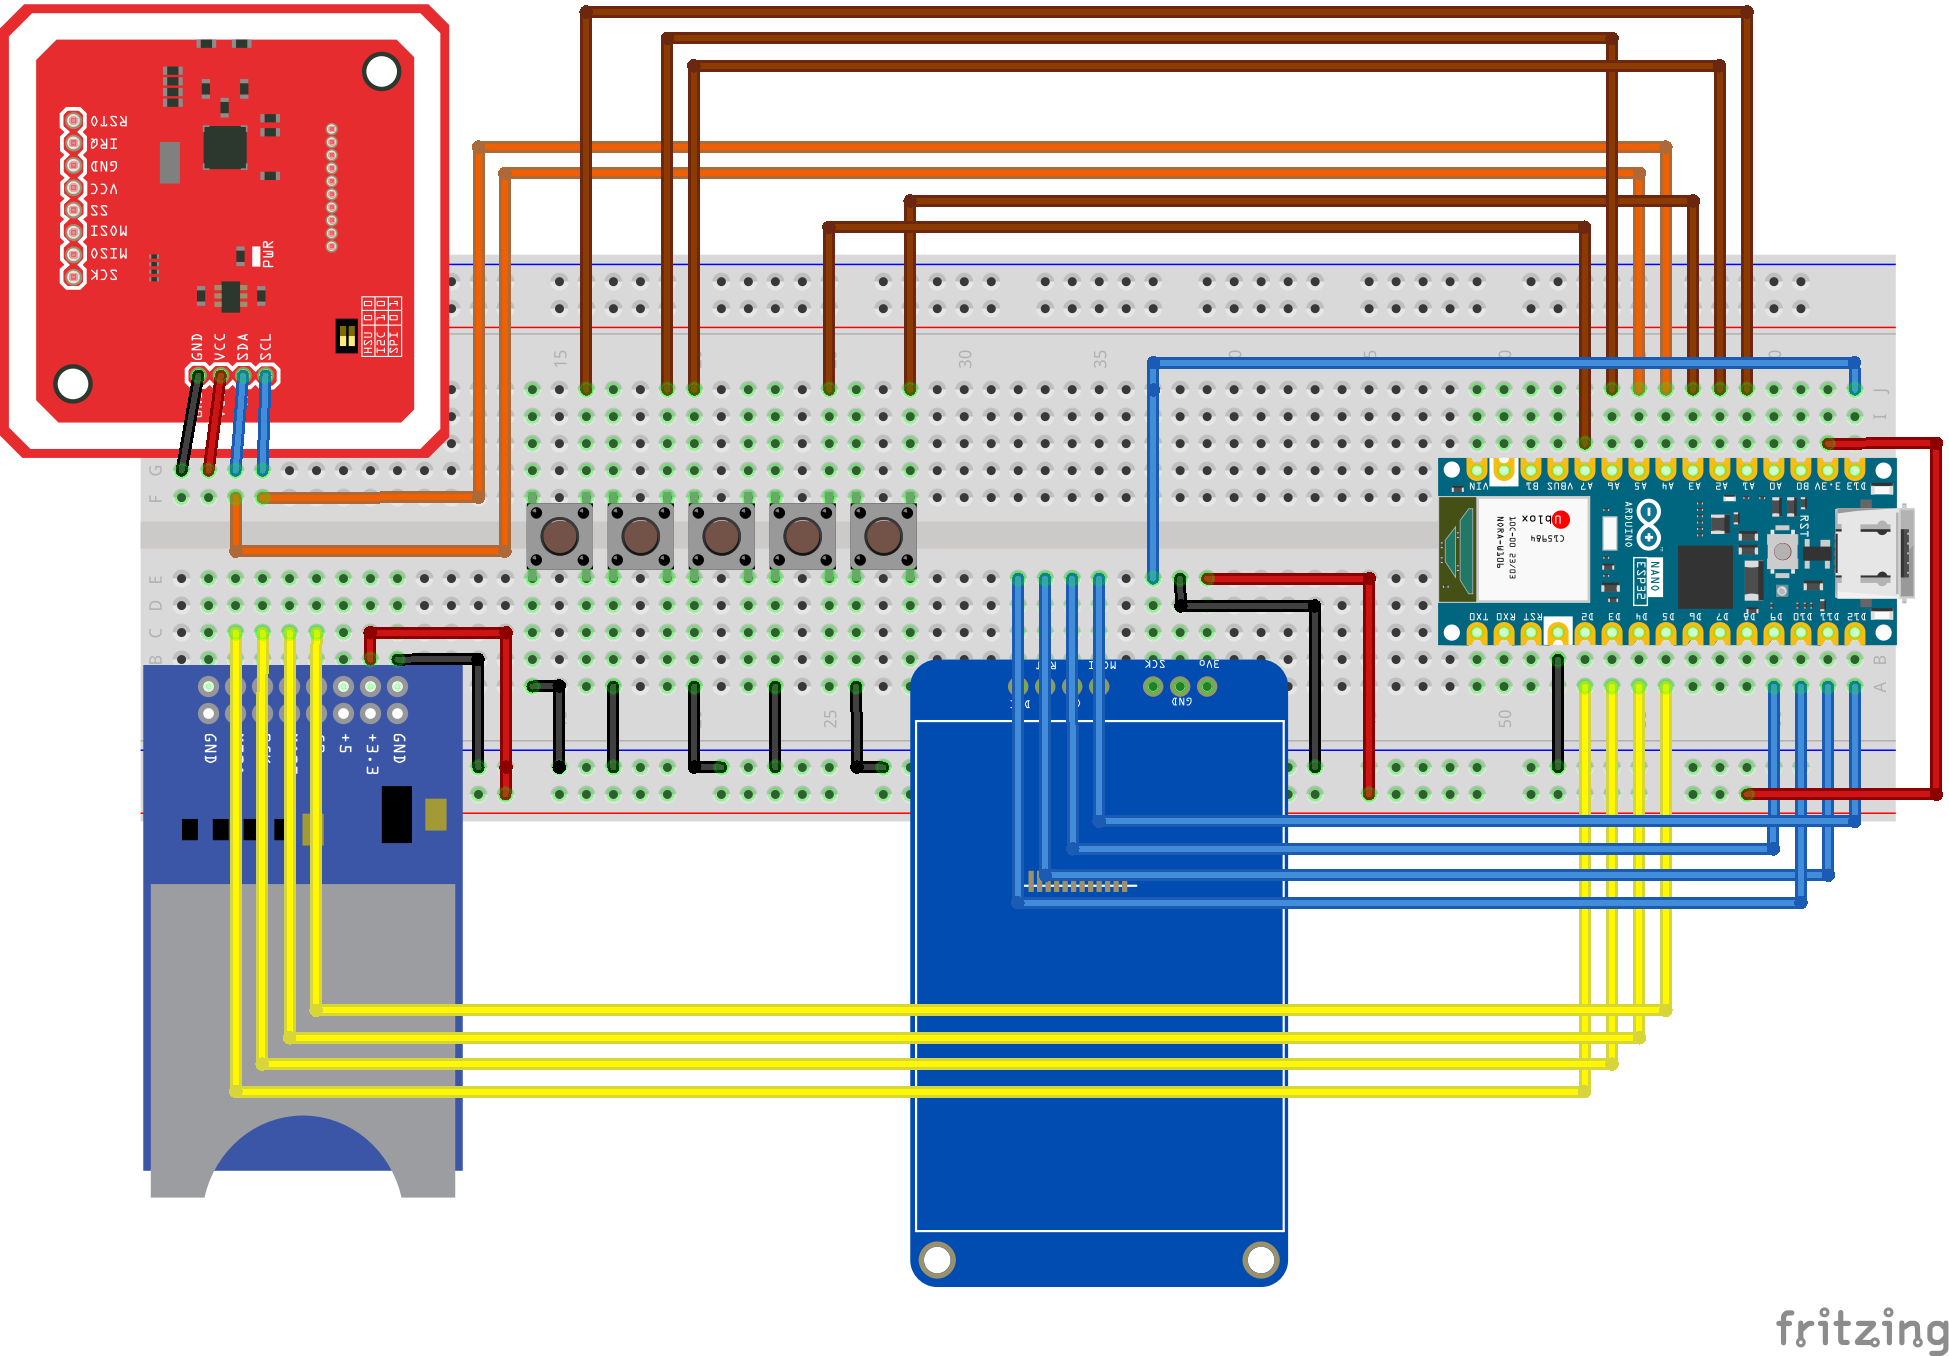
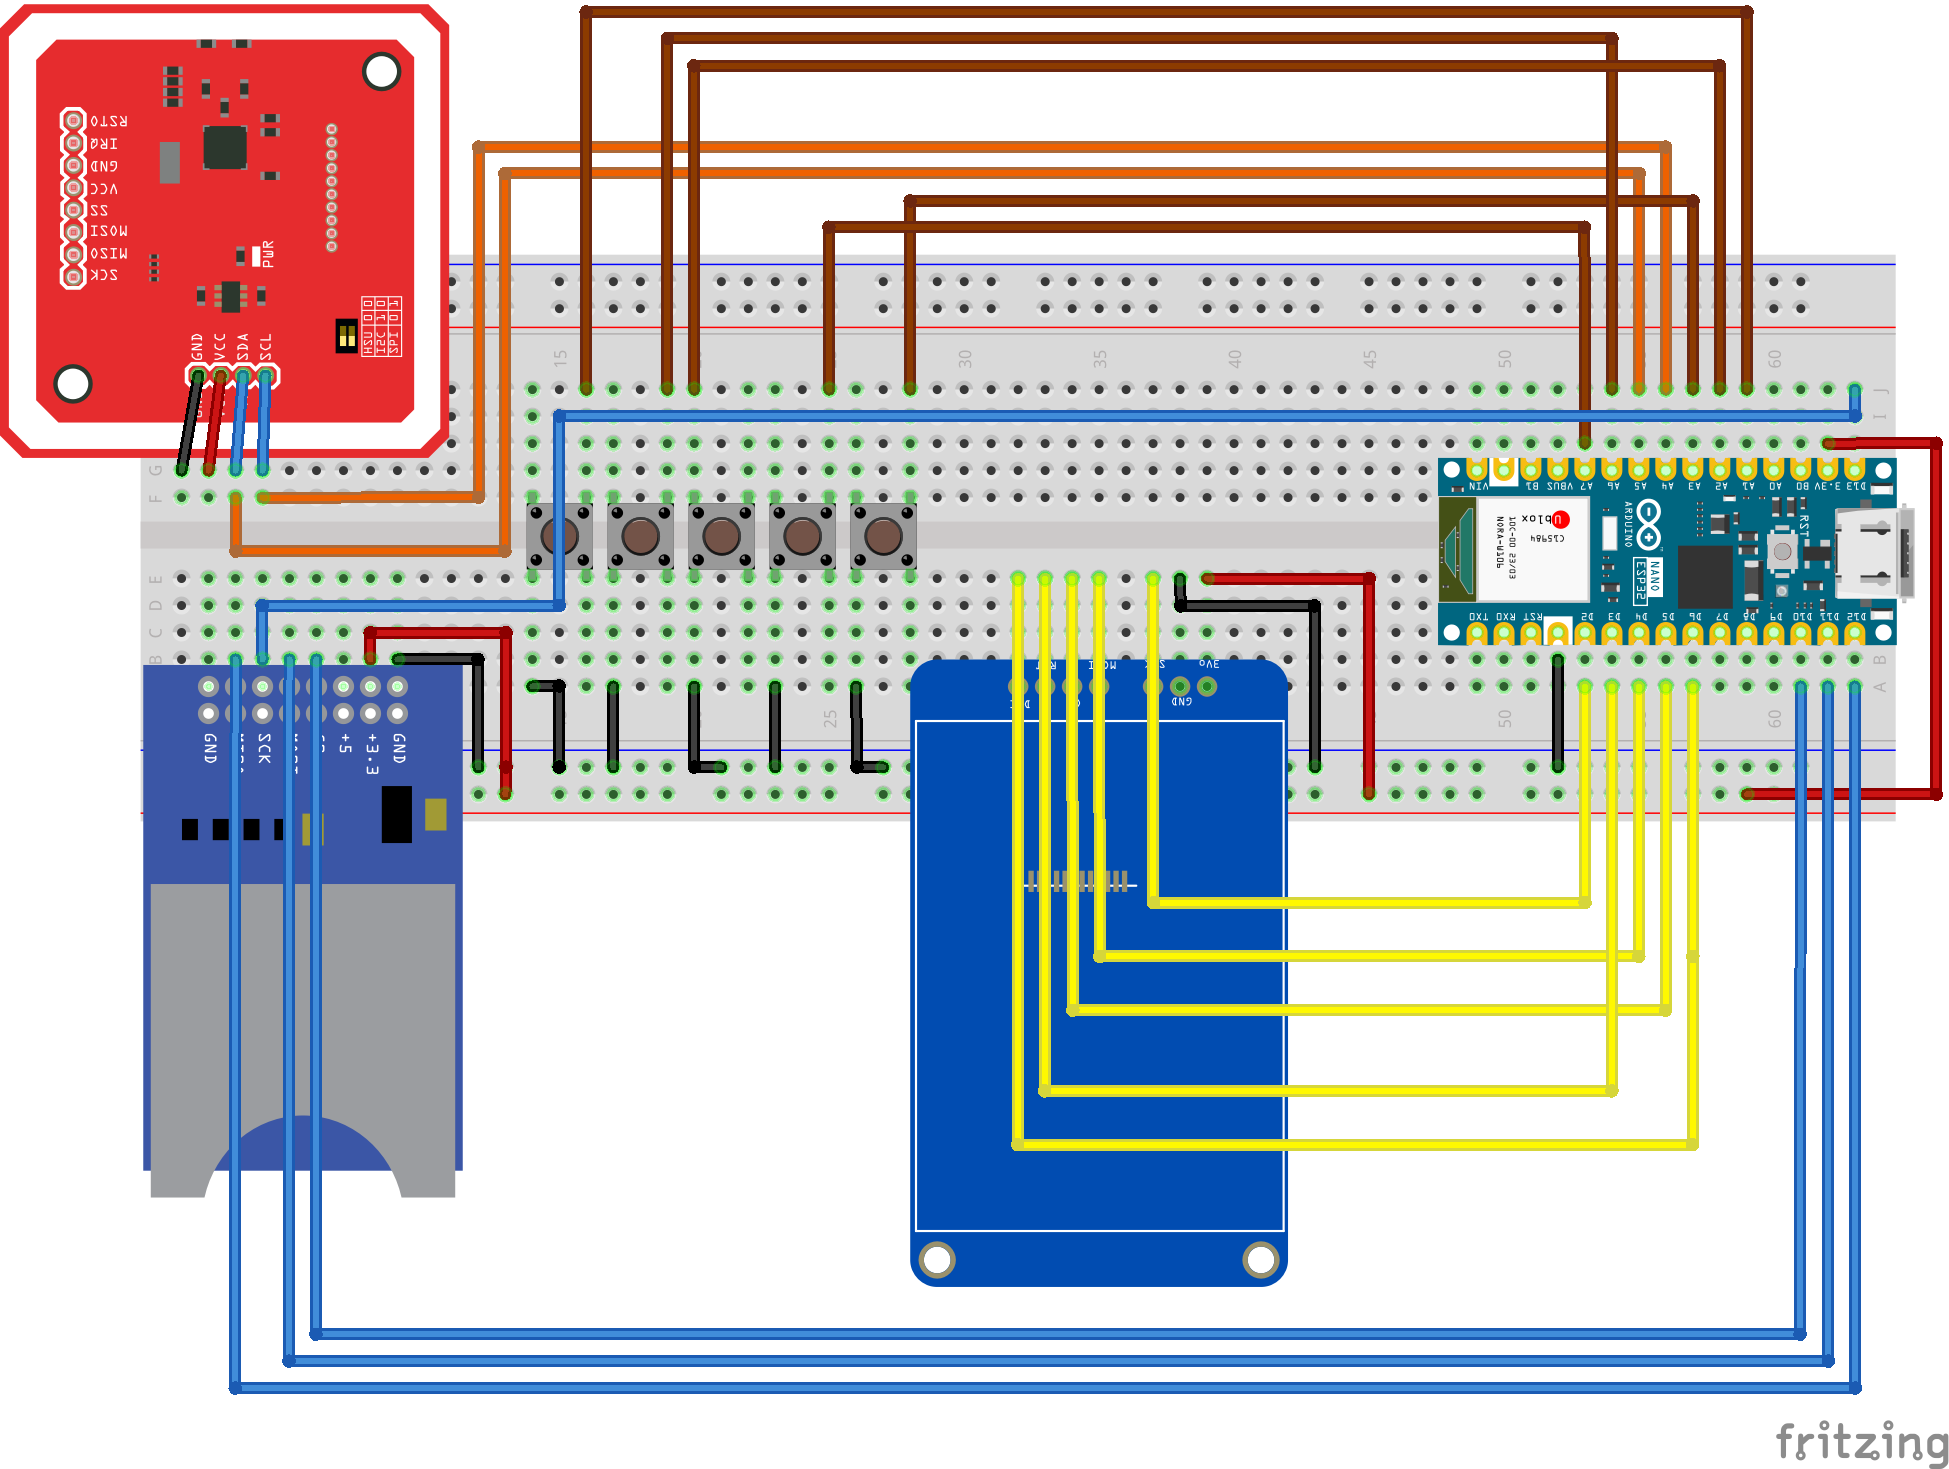
Update scheme

diff --git a/docs/scheme/ArduinoNanoESP32.md b/docs/scheme/ArduinoNanoESP32.md
@@ -21,10 +21,10 @@ With an Arduino Nano ESP32 board you must use the following pin if you doesn't w
 
 For the SD card we must use the SPI bus.
 
-- MISO: pin D2
-- SCK: pin D3
-- MOSI: pin D4
-- CS: pin D5
+- CS: pin D10
+- MOSI: pin D11
+- MISO: pin D12
+- SCK: pin D13
 
 <!-- ### CC1101
 
@@ -46,16 +46,17 @@ Make sure to put PN532 in I2C mode since we use it in this way. You can also use
 
 ### Display 
 
-- CS: pin D9
-- DC: pin D10
-- RST: pin D11
-- SDA(MOSI): D12
-- SCL(SCLK): D13
+- SCL(SCLK): D2
+- RST: pin D3
+- SDA(MOSI): D4
+- CS: pin D5
+- DC: pin D6
+- BLK: 3v3
 
 ### Buttons
 
-- Up: pin A1
-- Left: pin A2
+- Right: pin A1
+- Down: pin A2
 - OK: pin A3
-- Down: pin A6
-- Right: pin A7
+- Left: pin A4
+- Up: pin A5
